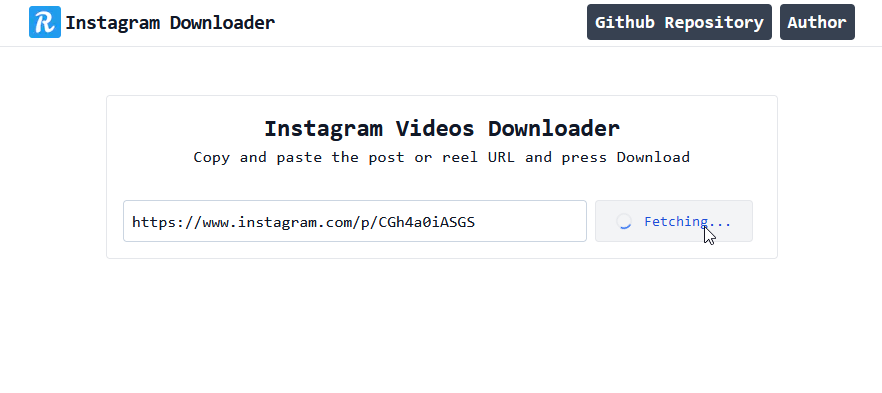
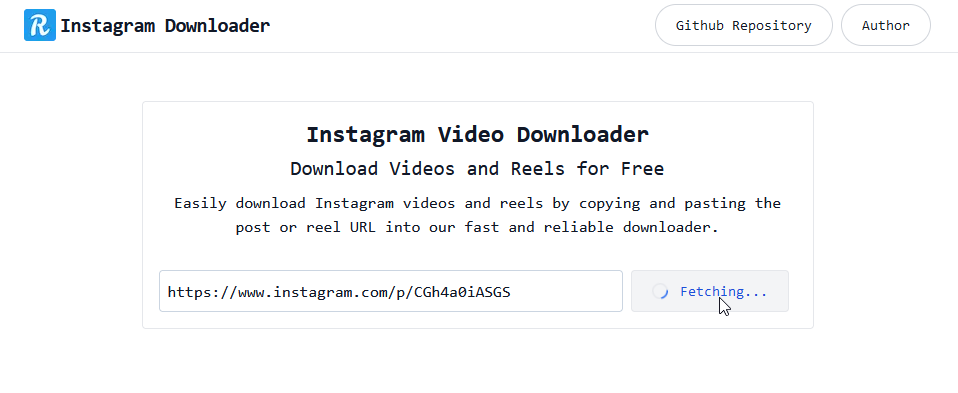
Update Fixed an issue where URL is deemed invalid if it contains extra routes/params after the ID Added better URL validation and improved regex on both server and client side Added Dark theme and Improved styling overall Added NavLink component Added better screenshots to README.md

diff --git a/app/api/post/route.ts b/app/api/post/route.ts
@@ -1,6 +1,6 @@
 import { NextResponse } from "next/server";
 import {
-  getPostID,
+  getPostId,
   fetchPostJson,
   formatResponse,
   formatFirstVideo,
@@ -9,7 +9,7 @@ import {
 export async function GET(request: Request) {
   const { searchParams } = new URL(request.url);
   let url: string | null = searchParams.get("url");
-  let postID;
+  let postId;
 
   if (!url) {
     return NextResponse.json(
@@ -19,14 +19,14 @@ export async function GET(request: Request) {
   }
 
   try {
-    postID = getPostID(url);
+    postId = getPostId(url);
   } catch (error: any) {
     return NextResponse.json({ error: error.message }, { status: 400 });
   }
 
   try {
-    const json = await fetchPostJson(postID);
-    const response = formatResponse(postID, json);
+    const json = await fetchPostJson(postId);
+    const response = formatResponse(postId, json);
 
     return NextResponse.json(response);
   } catch (error: any) {
@@ -37,7 +37,7 @@ export async function GET(request: Request) {
 export async function POST(request: Request) {
   const { searchParams } = new URL(request.url);
   let url: string | null = searchParams.get("url");
-  let postID;
+  let postId;
 
   if (!url) {
     return NextResponse.json(
@@ -47,14 +47,14 @@ export async function POST(request: Request) {
   }
 
   try {
-    postID = getPostID(url);
+    postId = getPostId(url);
   } catch (error: any) {
     return NextResponse.json({ error: error.message }, { status: 400 });
   }
 
   try {
-    const json = await fetchPostJson(postID);
-    const response = formatFirstVideo(postID, json);
+    const json = await fetchPostJson(postId);
+    const response = formatFirstVideo(postId, json);
 
     return NextResponse.json(response);
   } catch (error: any) {

diff --git a/app/components/InstagramForm.tsx b/app/components/InstagramForm.tsx
@@ -1,6 +1,5 @@
 "use client";
 import React, { useState, FormEvent } from "react";
-import { createPortal } from "react-dom";
 
 const InstagramForm = () => {
   const [postUrl, setPostUrl] = useState("");
@@ -28,7 +27,7 @@ const InstagramForm = () => {
       return setErrorMsg("Instagram URL was not provided");
     }
 
-    if (!postUrl.includes("instagram.com")) {
+    if (!postUrl.includes("instagram.com/")) {
       return setErrorMsg("Invalid URL does not contain Instagram domain");
     }
 
@@ -39,10 +38,10 @@ const InstagramForm = () => {
     }
 
     const postRegex =
-      /^https:\/\/(?:www\.)?instagram\.com\/p\/([a-zA-Z0-9_-]+)\/?$/;
+      /^https:\/\/(?:www\.)?instagram\.com\/p\/([a-zA-Z0-9_-]+)\/?/;
 
     const reelRegex =
-      /^https:\/\/(?:www\.)?instagram\.com\/reel\/([a-zA-Z0-9_-]+)\/?$/;
+      /^https:\/\/(?:www\.)?instagram\.com\/reel\/([a-zA-Z0-9_-]+)\/?/;
 
     if (!postRegex.test(postUrl) && !reelRegex.test(postUrl)) {
       return setErrorMsg("URL does not match Instagram post or reel");
@@ -96,7 +95,7 @@ const InstagramForm = () => {
           placeholder="e.g. https://www.instagram.com/p/CGh4a0iASGS"
           aria-label="Instagram video download URL input"
           title="Instagram video download URL input"
-          className="w-full px-2 py-1 border border-slate-300 rounded"
+          className="w-full px-2 py-1 dark:bg-gray-700 dark:text-white dark:placeholder-gray-400 border border-slate-300 rounded"
         />
 
         {loading ? (

diff --git a/app/page.tsx b/app/page.tsx
@@ -1,6 +1,7 @@
 import Link from "next/link";
 import InstagramForm from "./components/InstagramForm";
 import Image from "next/image";
+import NavLink from "./components/NavLink";
 
 export default function Home() {
   return (
@@ -10,20 +11,17 @@ export default function Home() {
           <Image src="/logo.png" alt="Logo" width={32} height={32} />
           <Link href="/">Instagram Downloader</Link>
         </div>
-        <ul className="flex gap-2 text-lg font-semibold">
-          <li className="px-2 py-1 bg-gray-700 hover:bg-gray-900 text-white rounded">
-            <Link
-              href="https://github.com/riad-azz/instagram-videos-downloader"
-              target="_blank"
-            >
-              Github Repository
-            </Link>
-          </li>
-          <li className="px-2 py-1 bg-gray-700 hover:bg-gray-900 text-white rounded">
-            <Link href="https://github.com/riad-azz/" target="_blank">
-              Author
-            </Link>
-          </li>
+        <ul className="flex gap-2">
+          <NavLink
+            target="_blank"
+            content="Github Repository"
+            href="https://github.com/riad-azz/instagram-videos-downloader"
+          />
+          <NavLink
+            target="_blank"
+            content="Author"
+            href="https://github.com/riad-azz/"
+          />
         </ul>
       </header>
       <main className="w-full md:max-w-2xl mx-auto p-4 md:border rounded">

diff --git a/app/api/post/utils.ts b/app/api/post/utils.ts
@@ -72,23 +72,29 @@ export const fetchPostJson = async (postID: string) => {
   return json;
 };
 
-export const getPostID = (postUrl: string) => {
+export const getPostId = (postUrl: string) => {
   const postRegex =
-    /^https:\/\/(?:www\.)?instagram\.com\/p\/([a-zA-Z0-9_-]+)\/?$/;
-
+    /^https:\/\/(?:www\.)?instagram\.com\/p\/([a-zA-Z0-9_-]+)\/?/;
   const reelRegex =
-    /^https:\/\/(?:www\.)?instagram\.com\/reel\/([a-zA-Z0-9_-]+)\/?$/;
+    /^https:\/\/(?:www\.)?instagram\.com\/reel\/([a-zA-Z0-9_-]+)\/?/;
+  let postId;
 
-  if (!postRegex.test(postUrl) && !reelRegex.test(postUrl)) {
-    const error = new Error("URL does not match Instagram post or reel");
+  const postCheck = postUrl.match(postRegex);
+  if (postCheck) {
+    postId = postCheck.at(-1);
+  }
+
+  const reelCheck = postUrl.match(reelRegex);
+  if (reelCheck) {
+    postId = reelCheck.at(-1);
+  }
+
+  if (!postId) {
+    const error = new Error("Instagram post/reel ID was not found");
     throw error;
   }
 
-  const postID = postUrl.split("/").at(4);
-  if (!postID) {
-    const error = new Error("Instagram post ID was not found");
-    throw error;
-  }
+  console.log(postId);
 
-  return postID;
+  return postId;
 };

diff --git a/app/components/NavLink.tsx b/app/components/NavLink.tsx
@@ -1,0 +1,22 @@
+import Link from "next/link";
+
+type NavLinkProps = {
+  content: string;
+  href: string;
+  target?: string;
+};
+const NavLink = ({ content, href, target = "" }: NavLinkProps) => {
+  return (
+    <li>
+      <Link
+        href={href}
+        target={target}
+        className="block text-gray-900 bg-white border border-gray-300 focus:outline-none hover:bg-gray-100 focus:ring-4 focus:ring-gray-200 font-medium rounded-full text-sm px-5 py-2.5 dark:bg-gray-800 dark:text-white dark:border-gray-600 dark:hover:bg-gray-700 dark:hover:border-gray-600 dark:focus:ring-gray-700"
+      >
+        {content}
+      </Link>
+    </li>
+  );
+};
+
+export default NavLink;

diff --git a/app/layout.tsx b/app/layout.tsx
@@ -19,7 +19,9 @@ export default function RootLayout({
 }) {
   return (
     <html lang="en">
-      <body className="bg-white text-gray-900 font-mono">{children}</body>
+      <body className="bg-white text-gray-900 dark:bg-gray-800 dark:text-slate-100 font-mono">
+        {children}
+      </body>
     </html>
   );
 }

diff --git a/README.md b/README.md
@@ -16,6 +16,8 @@ A website that lets you download Instagram videos easily and quickly. You can pa
 
 ![webpage preview image](screenshots/sc-02.png)
 
+![webpage preview image](screenshots/sc-03.png)
+
 ## Installation & Running
 
 1. Cloning the repository
